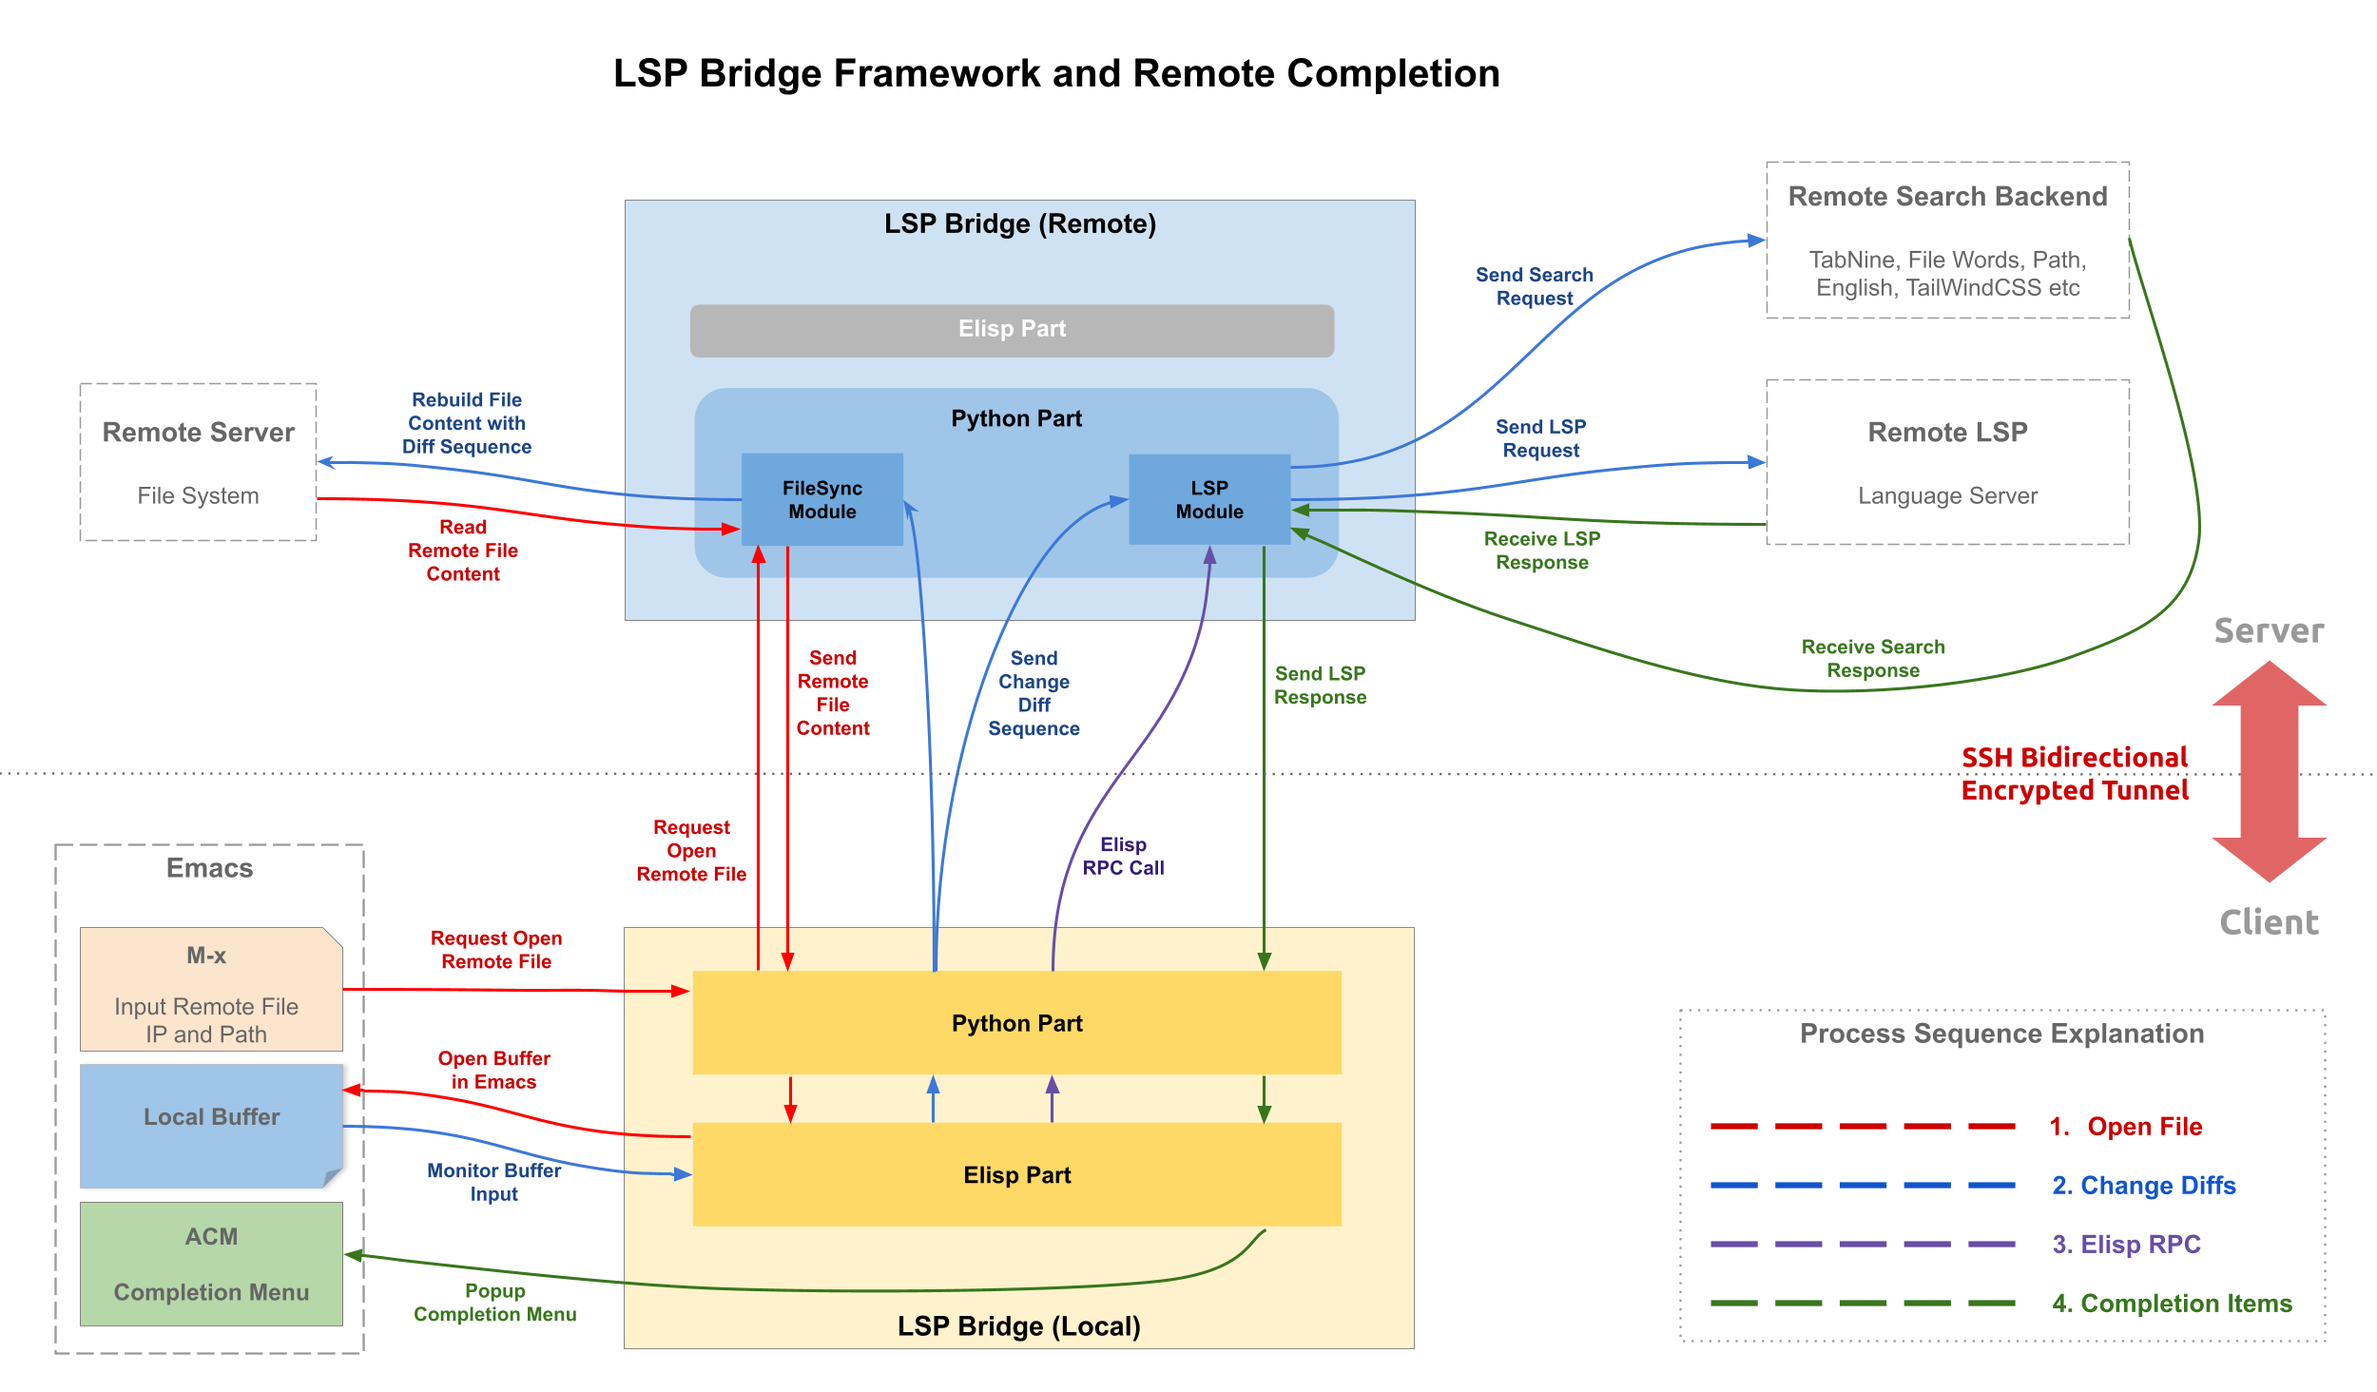
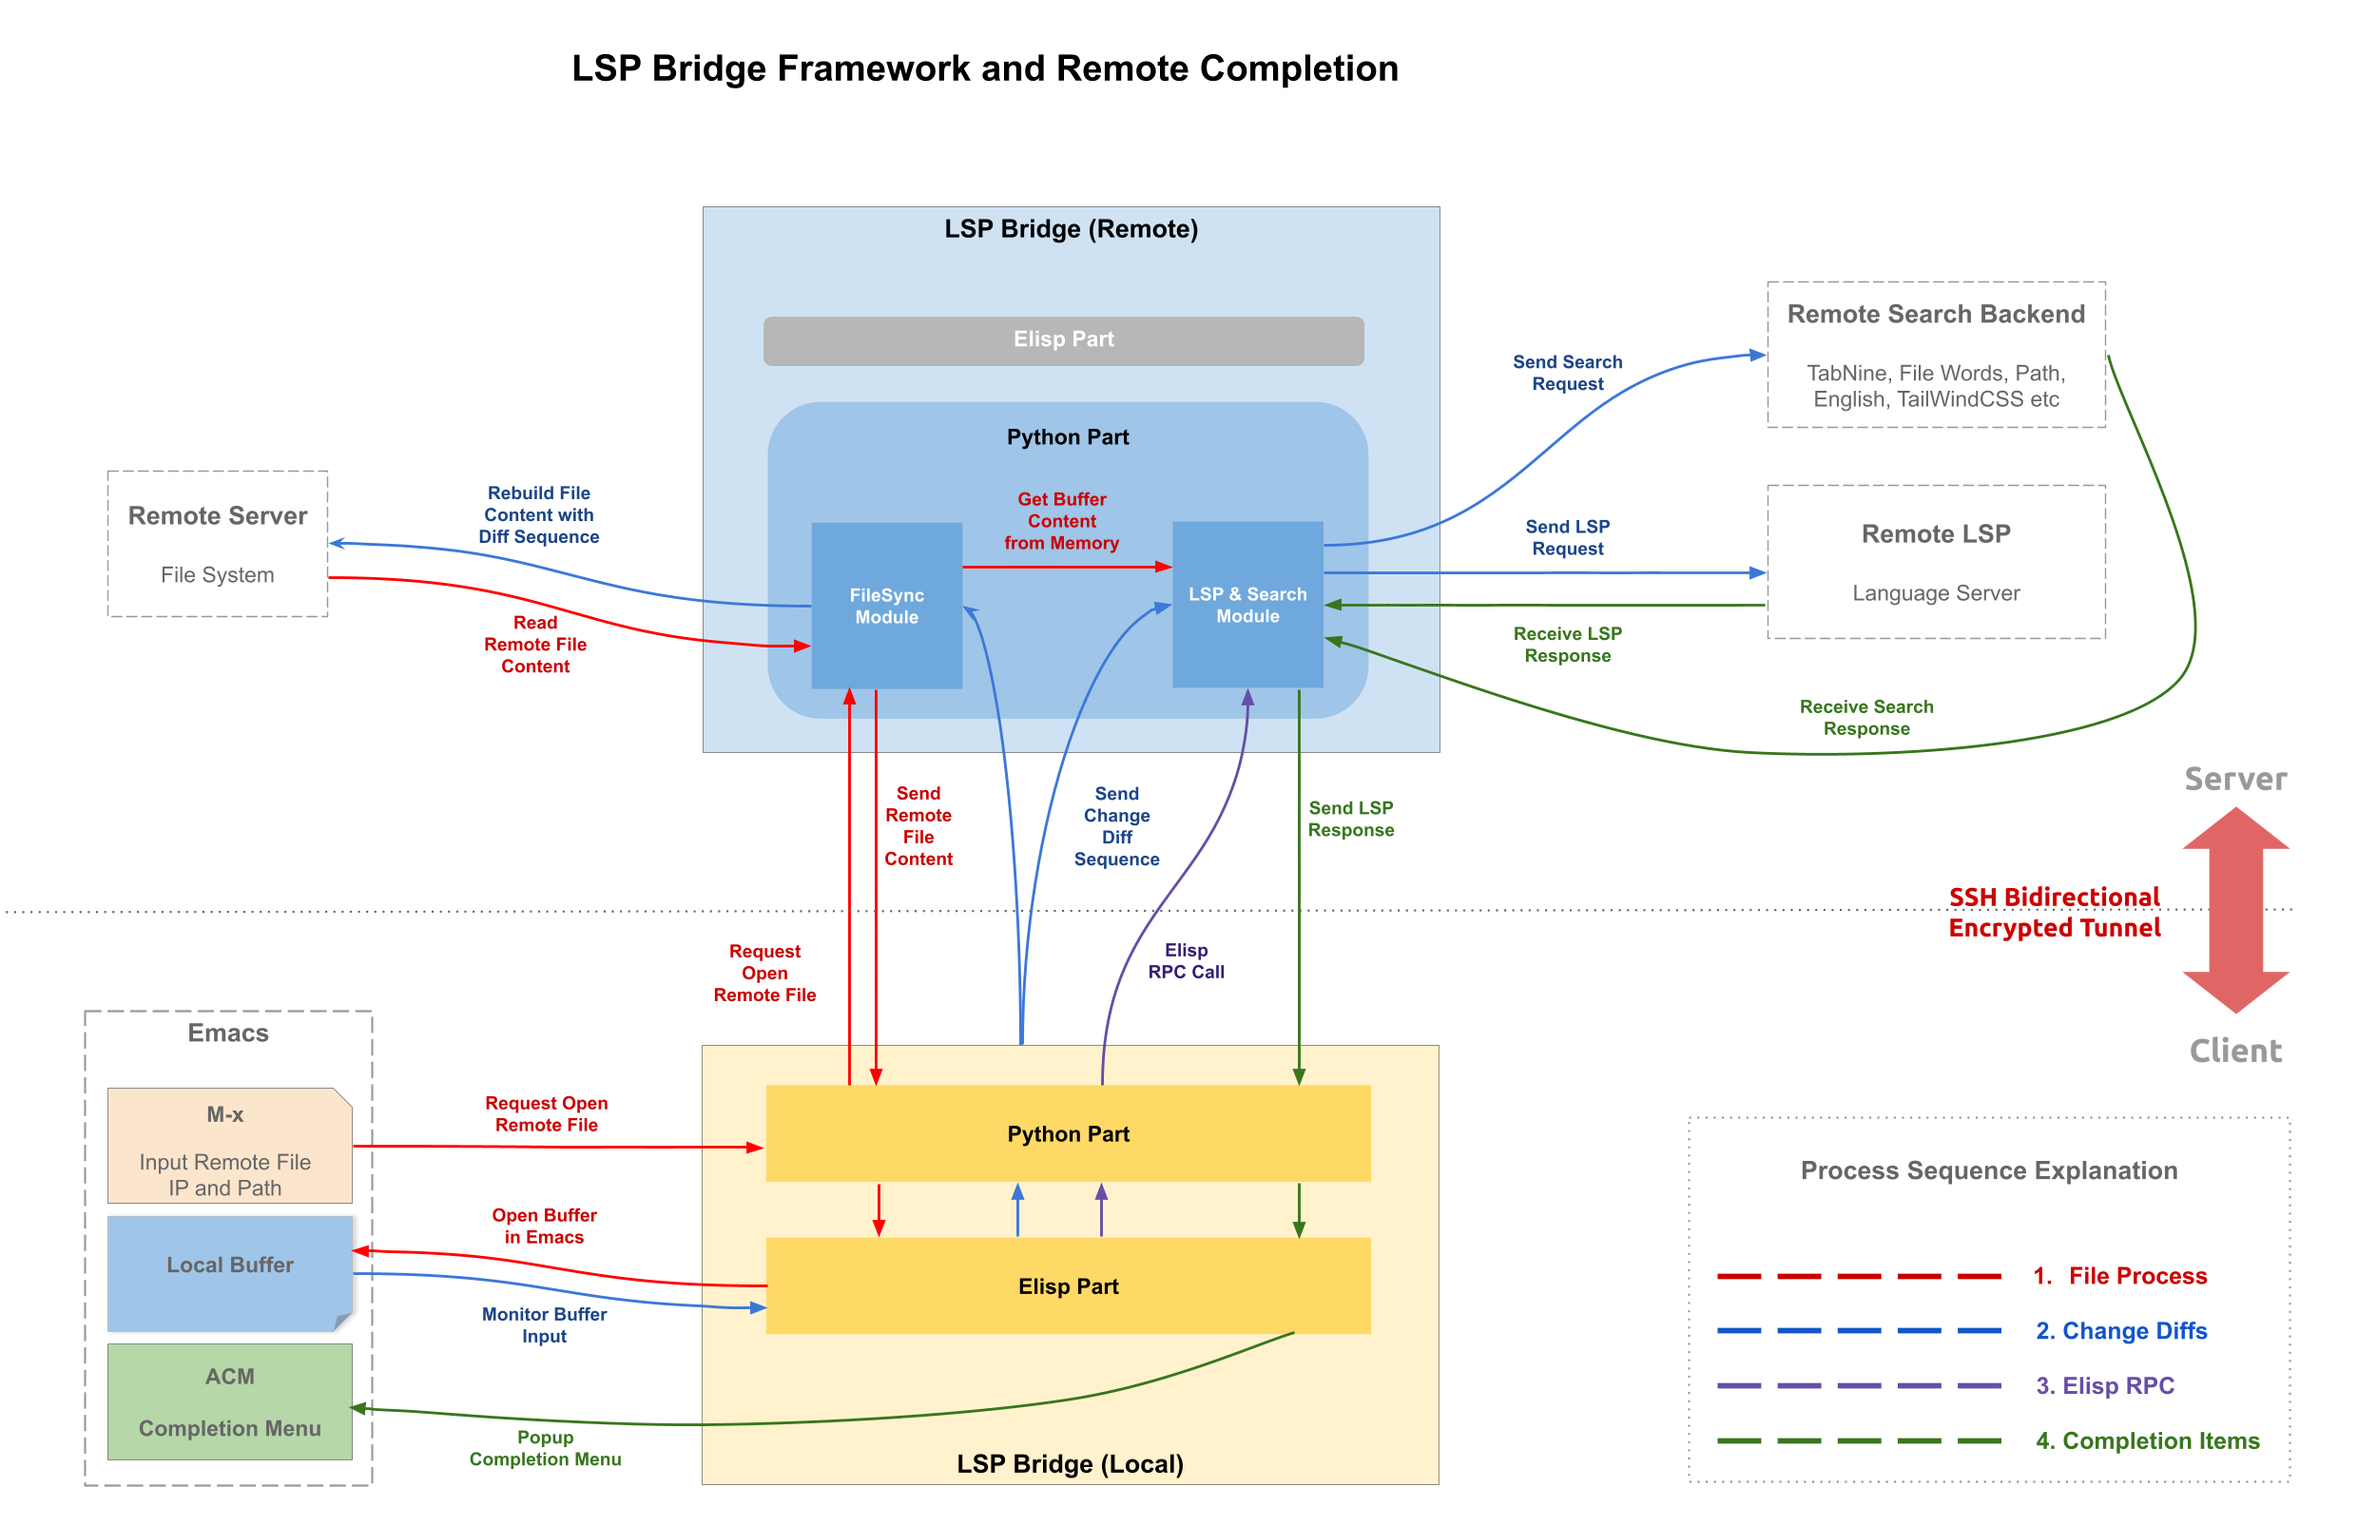
Add remote file feature to lsp-bridge with real-time sync and LSP requests

diff --git a/_posts/2023-03-31-lsp-bridge-remote-file.md b/_posts/2023-03-31-lsp-bridge-remote-file.md
@@ -28,7 +28,7 @@ categories: [Emacs, EAF]
 3. 安全隧道建立后， 本地 lsp-bridge Python 模块通过 socket 向远程服务器发送 `open_file` 的请求
 4. 远程 lsp-bridge 接受到请求以后， 读取远程服务器的文件， 返回文件内容给本地 lsp-bridge, 本地 lsp-bridge Python 模块再通过本地 lsp-bridge Elisp 模块调用 Emacs 函数创建 Buffer
 5. 监控 Emacs 才创建的远程文件 Buffer， 根据 `before-change-functions` 和 `after-change-functions` 两个 hook， 得到每次编文本的 diff text
-6. 本地 lsp-bridge Python 模块得到 diff text 以后， 按照顺序分别发送给远程 lsp-bridge 的文件同步模块和 LSP 模块， 文件同步模块根据 diff text 序列， 在远程服务器重建文件的最新内容（这样不管文件有多大， 文件的内容都可以实时同步， 因为 diff text 非常小）， 同时 LSP 模块负责根据 diff text 转换成 LSP 协议的 textDocument/didChange 请求发送给远程的 LSP 服务器， 也会发送到其他搜索补全后端
+6. 本地 lsp-bridge Python 模块得到 diff text 以后， 按照顺序分别发送给远程 lsp-bridge 的文件同步模块和 LSP 模块， 文件同步模块根据 diff text 序列， 在远程服务器重建文件的最新内容（这样不管文件有多大， 文件的内容都可以实时同步， 因为 diff text 非常小）。 同时 LSP 模块负责根据 diff text 转换成 LSP 协议的 textDocument/didChange 请求发送给远程的 LSP 服务器， 也会发送文件搜索请求到其他搜索补全后端。 有些语言需要获取文件的内容时， 远端 LSP&Search 模块会从 FileSync 模块的内存中直接读取最新 Buffer 的内容， 而不会从开发者电脑绕一圈（这样也会避免在两边传送大型文件内容卡死 Emacs）
 7. 当远程 lsp-bridge LSP 模块得到 LSP 服务器或其他搜索后端的返回响应后， 再通过 socket 发送给本地 lsp-bridge, 经过 Python 模块和 Elisp 模块， 最终发送给 Emacs
 8. Emacs 得到补全数据后， 结合 lsp-bridge 的 ACM 模块（异步补全菜单）， 在本地弹出补全菜单
 9. 其中紫线的部分比较复杂， 本地 lsp-bridge 和远端 lsp-bridge 建立链接后， 远端 lsp-bridge 需要获取 Emacs 配置时， 会从远端到本地建立一个 RPC， 从本地 Emacs 读取配置后再返回远端的 lsp-bridge, 为了保证 RPC 的数据不会受影响， 整体设计上， lsp-bridge 在安全隧道基础上建立了三个独立的通信频道， 分别处理文件同步、 LSP 请求及返回、 Elisp 远程 RPC 通道
